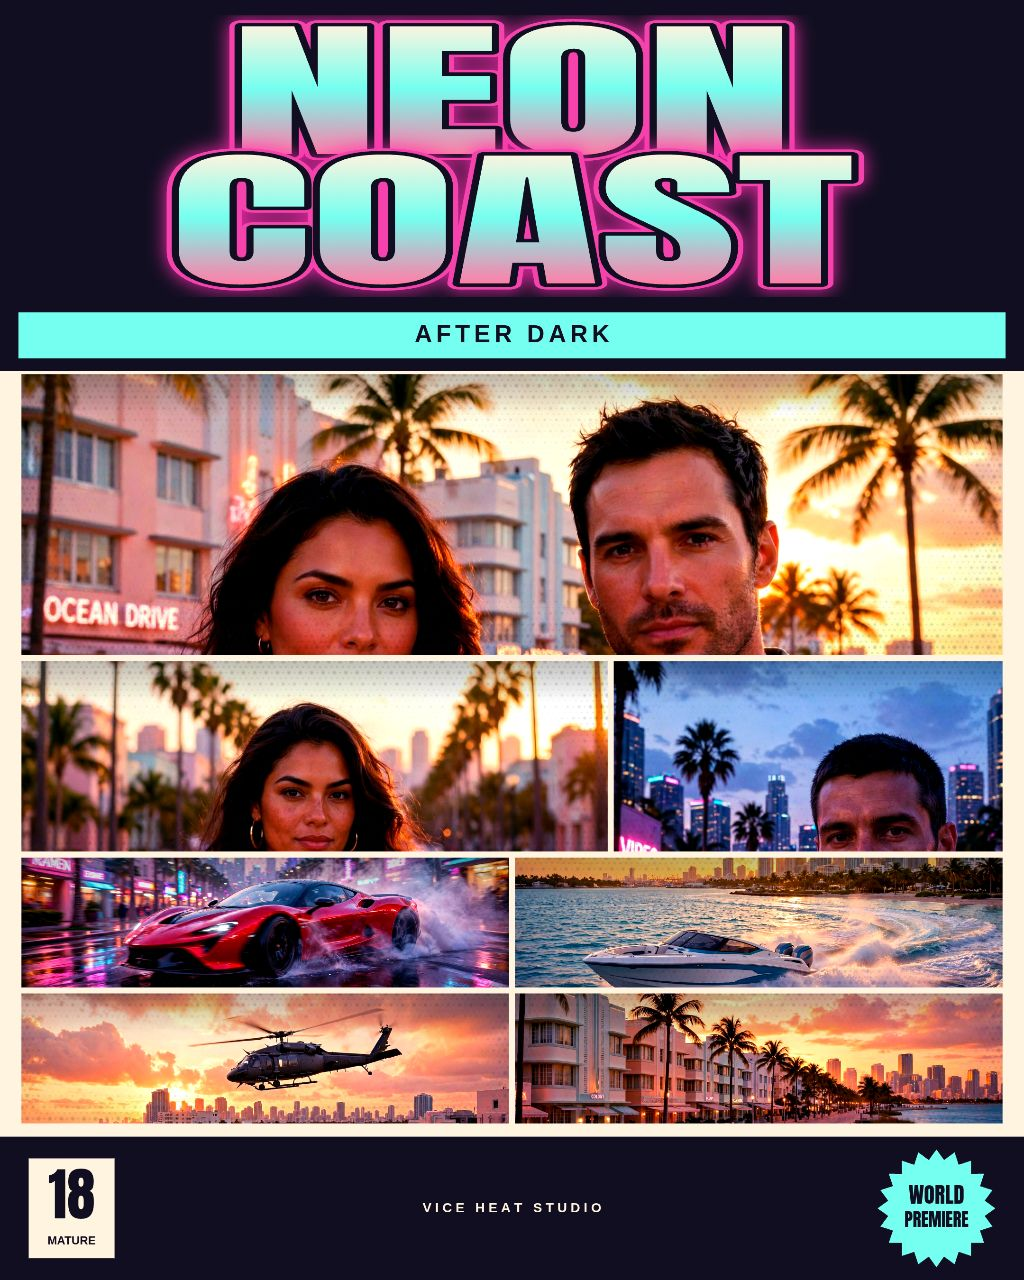
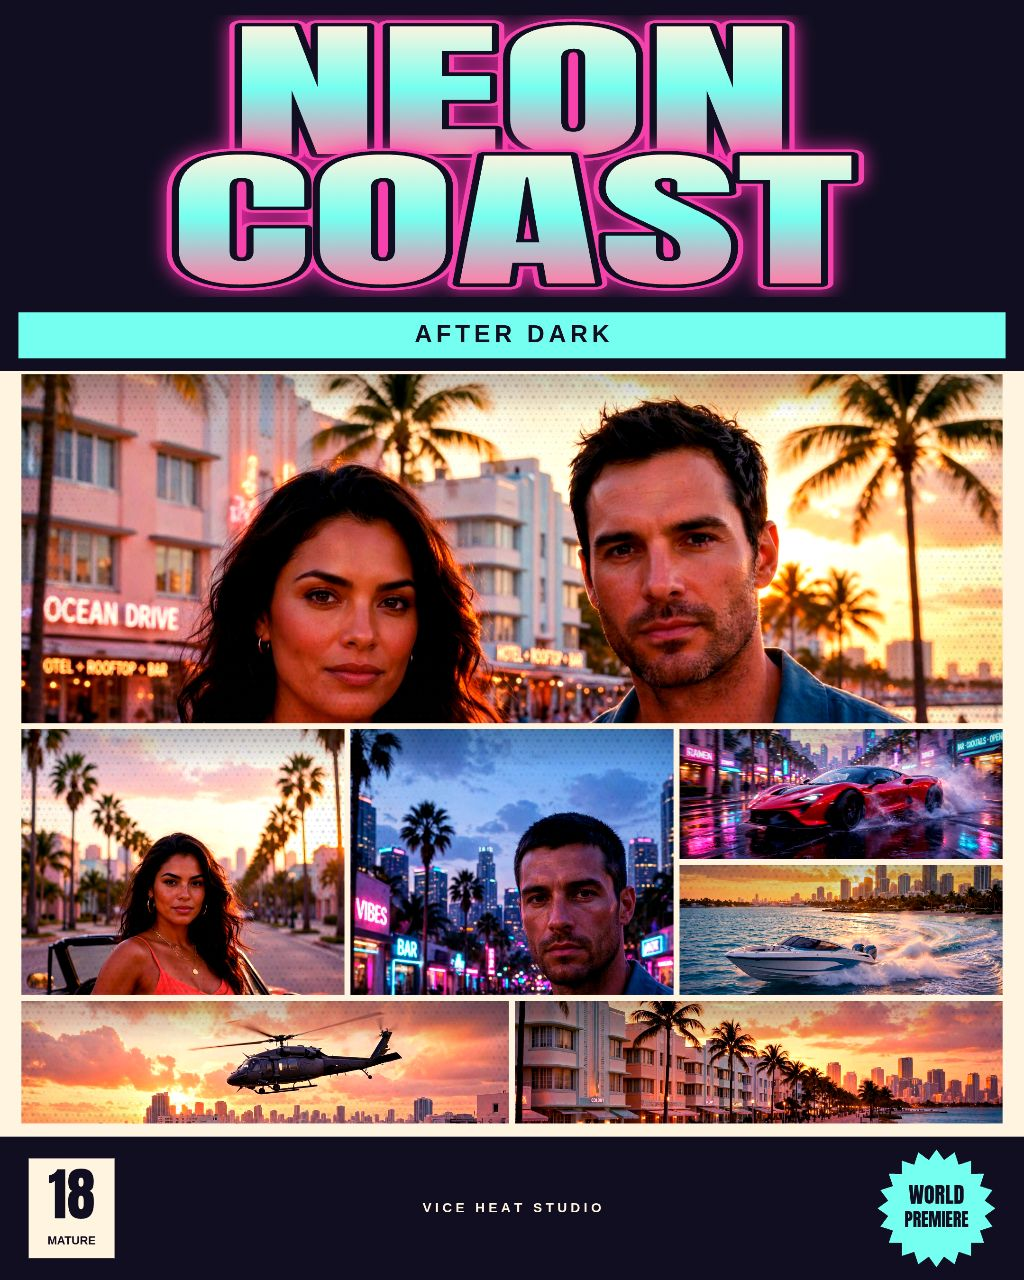
Round 10 fix: portrait key-art uses tall character panels — whole heads fit

Changed region(s): [[0.0, 0.5, 1.0, 0.875]]

diff --git a/app/src/cover.js b/app/src/cover.js
@@ -197,10 +197,12 @@ function keyArtPhotoPanels(aspect) {
       row(.695, .5, .305, .5), row(.695, 0, .305, .5)];
   }
   if (aspect < .9) {
-    return [row(0, 0, 1, .38),
-      row(0, .38, .6, .26), row(.6, .38, .4, .26),
-      row(0, .64, .5, .18), row(.5, .64, .5, .18),
-      row(.5, .82, .5, .18), row(0, .82, .5, .18)];
+    const column = 1 / 3;
+    // The full-width duo needs extra height to fit both heads at cover scale.
+    return [row(0, 0, 1, .47),
+      row(0, .47, column, .36), row(column, .47, column, .36),
+      row(2 * column, .47, column, .18), row(2 * column, .65, column, .18),
+      row(.5, .83, .5, .17), row(0, .83, .5, .17)];
   }
   // Portraits span both grid rows; the four landscape action photos occupy
   // the remaining two columns. This avoids squeezing heads into short tiles.
